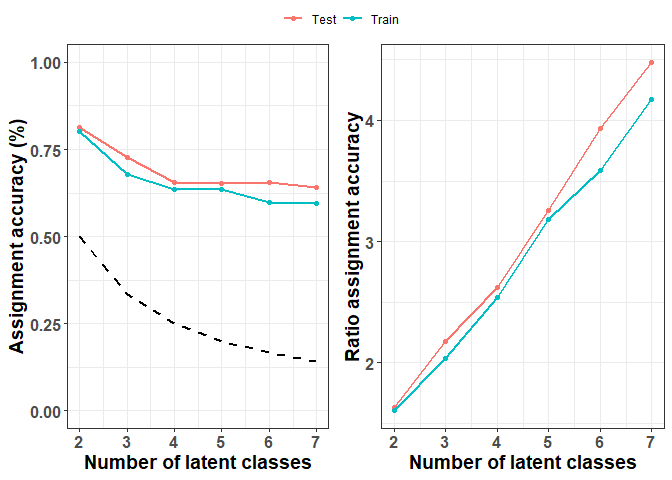
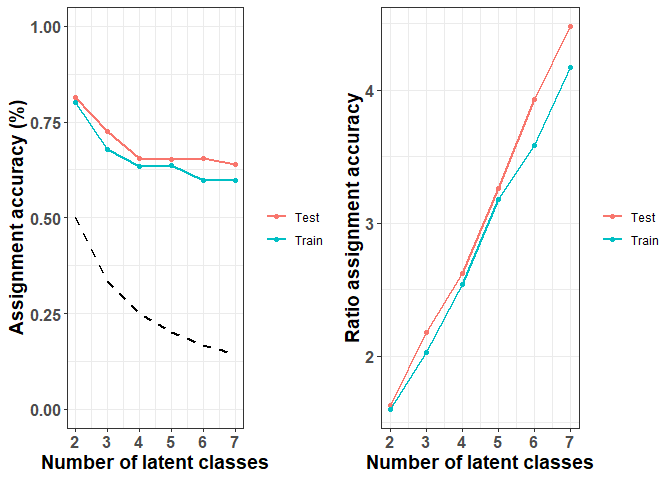
test legend

diff --git a/README.md b/README.md
@@ -38,9 +38,6 @@ Load the package and the data:
 library(MMLCA)
 #> Warning: replacing previous import 'magrittr::extract' by 'tidyr::extract' when
 #> loading 'MMLCA'
-```
-
-``` r
 data(mmdata)
 ```
 
@@ -104,10 +101,10 @@ res$plot
 Compare the classification accuracy on the train vs. test data:
 
 ``` r
-ggaccuracy_LCA(res, test = X[test, ])
+ggacc <- ggaccuracy_LCA(res, test = X[test, ])
 ```
 
-<img src="man/figures/README-unnamed-chunk-8-1.png" width="100%" /><img src="man/figures/README-unnamed-chunk-8-2.png" width="100%" />
+<img src="man/figures/README-unnamed-chunk-8-1.png" width="100%" />
 
 ### Interpretation of the MM patterns
 
@@ -123,12 +120,6 @@ OEx_sol5 <- ggOEx(res$obj[[4]], table = F)
 
 <img src="man/figures/README-unnamed-chunk-9-1.png" width="100%" />
 
-``` r
-OEx_sol5
-```
-
-<img src="man/figures/README-unnamed-chunk-9-2.png" width="100%" />
-
 **Method 2:** O/E and overall prevalence:
 
 ``` r
@@ -138,14 +129,6 @@ OE_sol5 <- ggOE(res$obj[[4]], table = F)
 
 <img src="man/figures/README-unnamed-chunk-10-1.png" width="100%" />
 
-``` r
-OE_sol5
-#> Warning: Removed 167 rows containing missing values or values outside the scale range
-#> (`geom_text()`).
-```
-
-<img src="man/figures/README-unnamed-chunk-10-2.png" width="100%" />
-
 **Method 3:**
 
 ``` r
@@ -154,9 +137,3 @@ prev_sol5 <- ggprev(res$obj[[4]])
 ```
 
 <img src="man/figures/README-unnamed-chunk-11-1.png" width="100%" />
-
-``` r
-prev_sol5
-```
-
-<img src="man/figures/README-unnamed-chunk-11-2.png" width="100%" />
